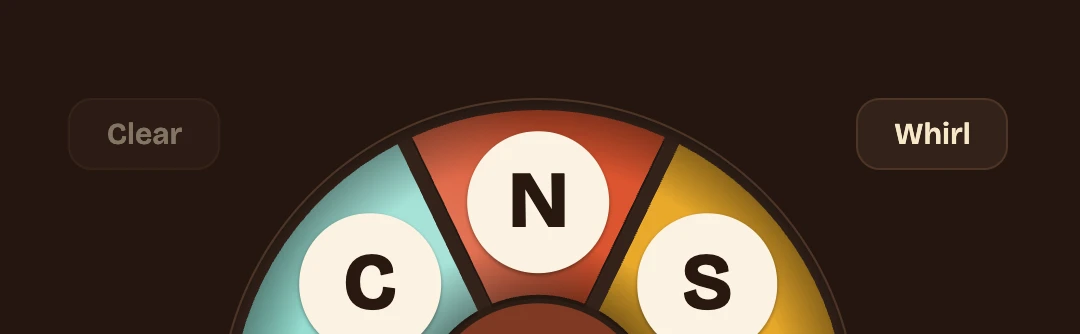
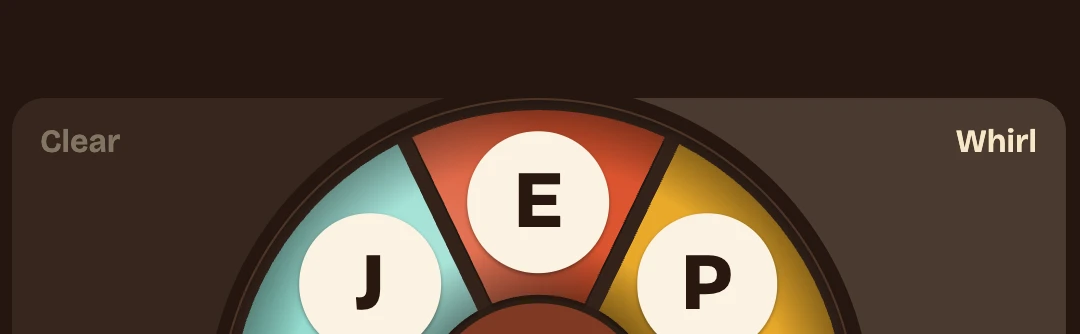
Jumbleword: Clear and Whirl fill the corners beside the dial, curving round its ring, and short phones get a smaller dial so the card can keep more of its words

diff --git a/static-assets/toys/jumbleword/index.html b/static-assets/toys/jumbleword/index.html
@@ -88,10 +88,17 @@ h1 { font-family: var(--display); font-weight: 400; font-size: 30px; line-height
 /* The word being spelt and the last message share one row: the message gives way as soon as a ball is picked */
 .spell { display: grid; place-items: center; }
 .spell:has(.tray .ball) .msg { visibility: hidden; }
-/* Clear and Whirl sit in the top corners, outside the ring */
-.controls { position: relative; display: grid; justify-items: center; width: min(100%, calc(var(--d) + 150px)); align-self: center; }
-.controls > .btn { position: absolute; top: 0; z-index: 1; min-width: 76px; padding: 8px 12px; }
-#clear { left: 0; } #shuffle { right: 0; }
+/* Clear and Whirl fill the top corners beside the dial: each is a corner box with a curved bite taken out round the ring,
+   so it reads as a triangle with one rounded side. The dial sits above them and only its balls and hub take taps. */
+.controls { position: relative; display: grid; justify-items: center; width: min(100%, calc(var(--d) + 240px)); align-self: center; --gap: 7px; }
+.controls > .btn { position: absolute; top: 0; width: calc(50% - var(--gap) / 2); height: calc(var(--d) / 2); padding: 12px 14px; border: 0;
+  display: flex; align-items: flex-start; font-size: 16px; background: color-mix(in srgb, var(--ink) 12%, var(--panel));
+  --m: radial-gradient(circle calc(var(--d) / 2 + var(--gap)) at var(--cx) 100%, transparent calc(100% - .5px), #000 100%);
+  -webkit-mask: var(--m); mask: var(--m); }
+#clear { left: 0; --cx: calc(100% + var(--gap) / 2); border-radius: 16px 0 0 14px; justify-content: flex-start; }
+#shuffle { right: 0; --cx: calc(var(--gap) / -2); border-radius: 0 16px 14px 0; justify-content: flex-end; }
+.dial { z-index: 1; pointer-events: none; }
+.dial .hub { pointer-events: auto; }
 .btn { font: 600 15px var(--body); color: var(--ink); background: var(--panel); border: 1px solid var(--line); border-radius: 12px; padding: 11px 10px; cursor: pointer; }
 .btn.primary { background: var(--tomato); border-color: var(--tomato); color: #fff8ea; font-weight: 800; }
 .btn:disabled { opacity: .45; cursor: default; }
@@ -169,6 +176,8 @@ h1 { font-family: var(--display); font-weight: 400; font-size: 30px; line-height
   .wrap { height: 100%; padding-block: 10px 12px; gap: 10px; }
   header { order: 1; } .board { order: 2; } .play { order: 3; }
   .play { gap: 4px; --d: min(90cqi, 38dvh); }
+  /* iPhone SE and other short phones: a smaller dial leaves the card room for more of its words */
+  @media (max-height: 700px) { .play { --d: min(80cqi, 33dvh); } }
   .tray { min-height: 44px; }
   .board { flex: 1 1 auto; min-height: 0; overflow-y: auto; overscroll-behavior: contain; padding: 10px 12px; gap: 4px; }
   /* Readable at arm's length: the card's words grow with the screen (about 23px on the largest iPhones) and sit tight together */
